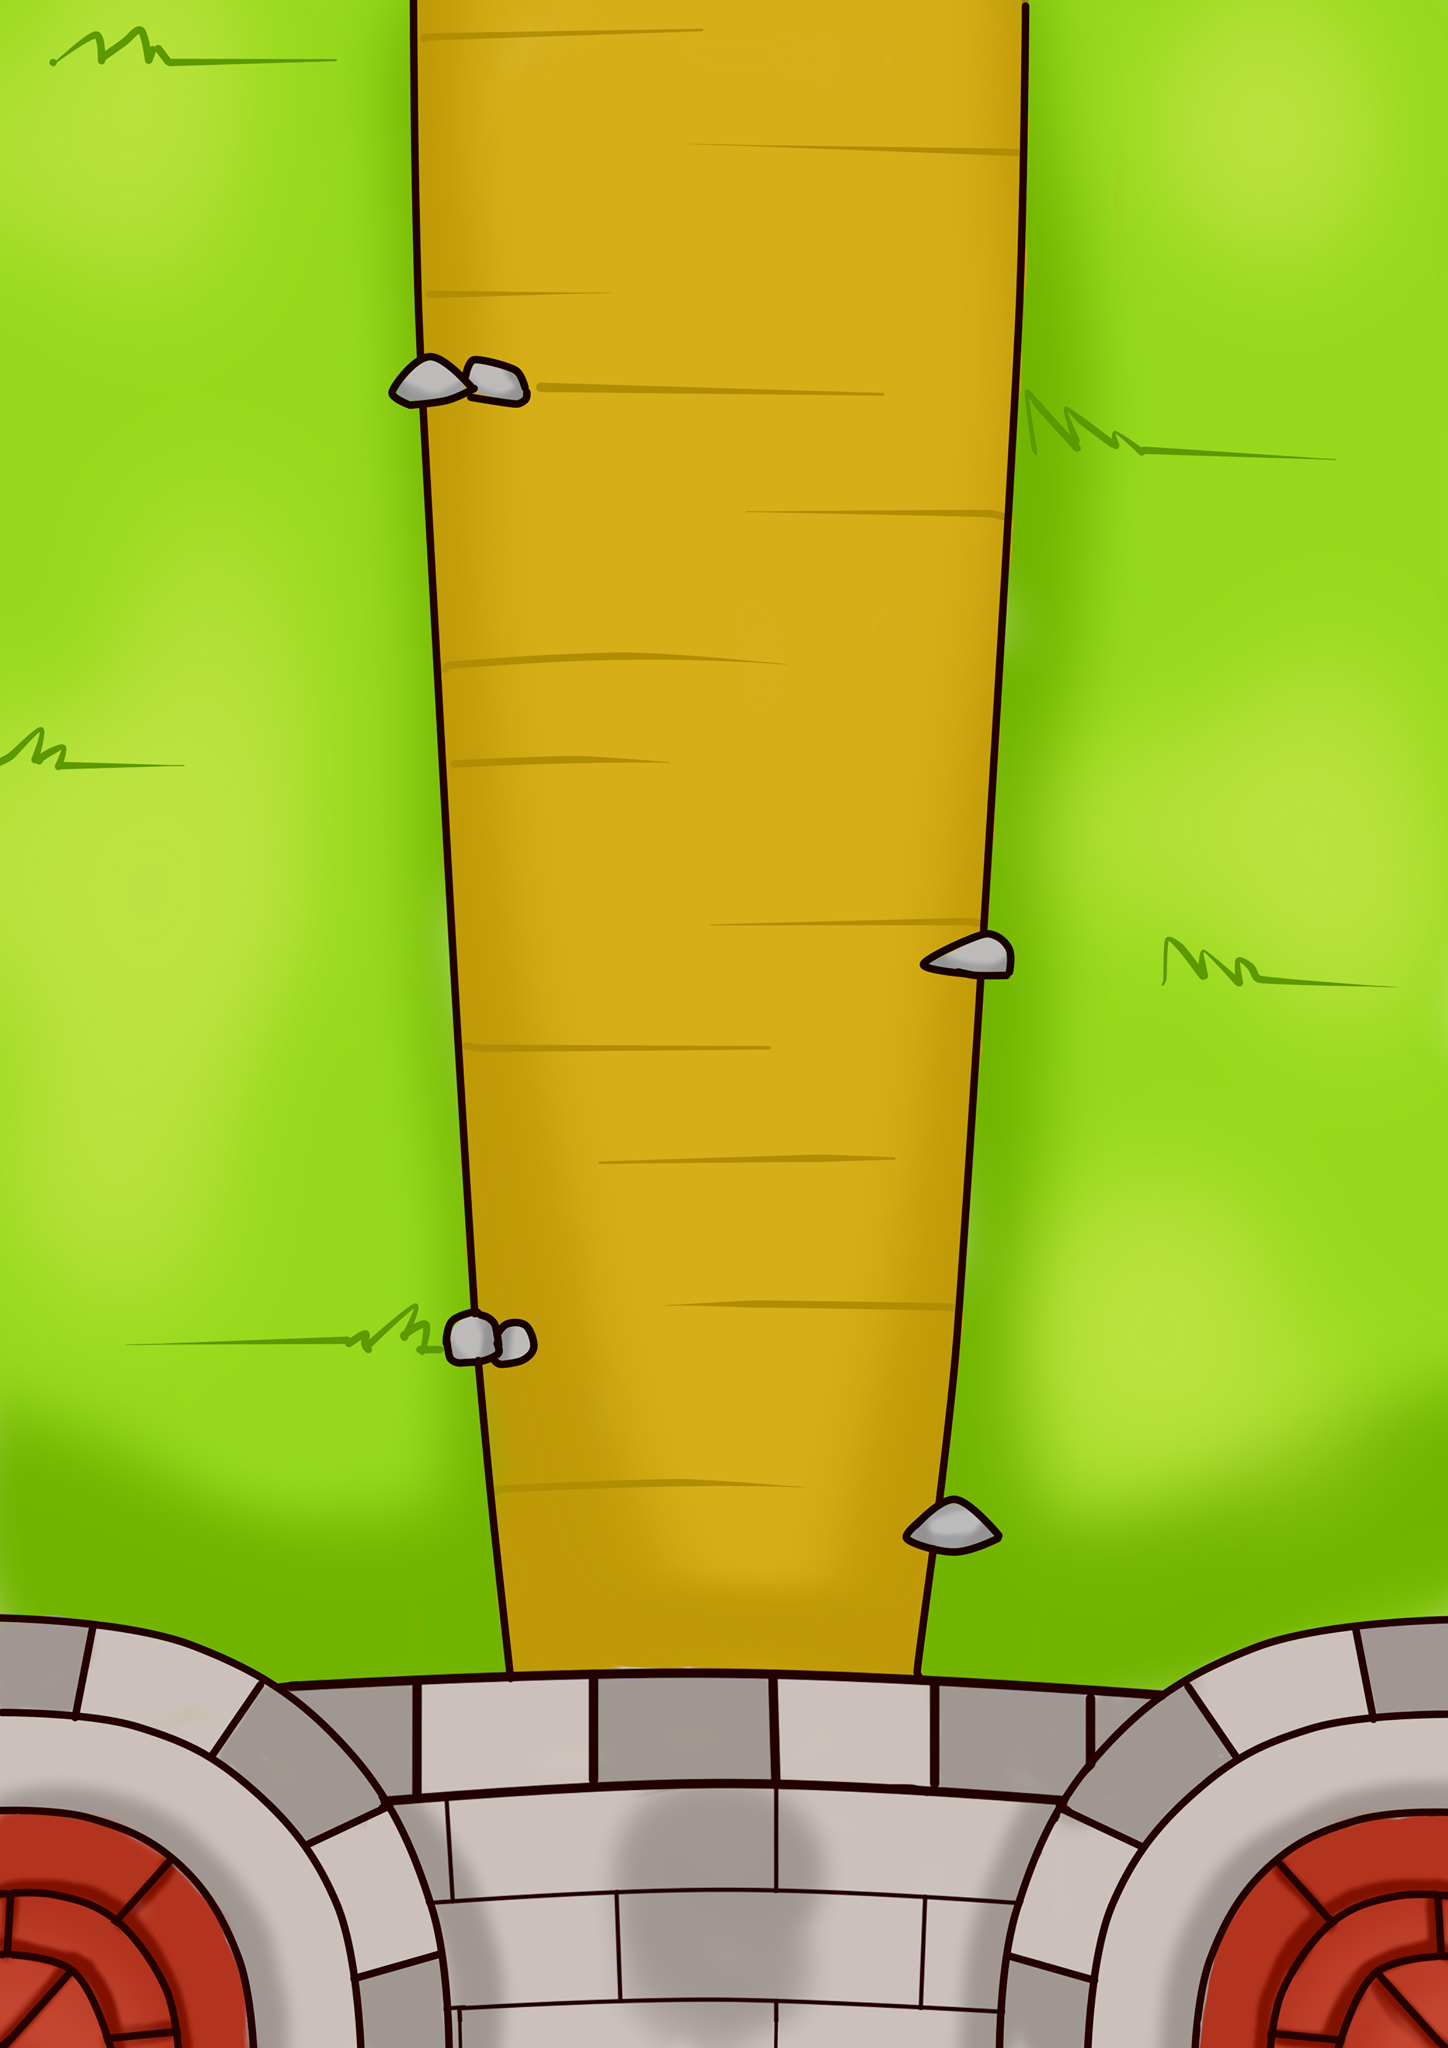
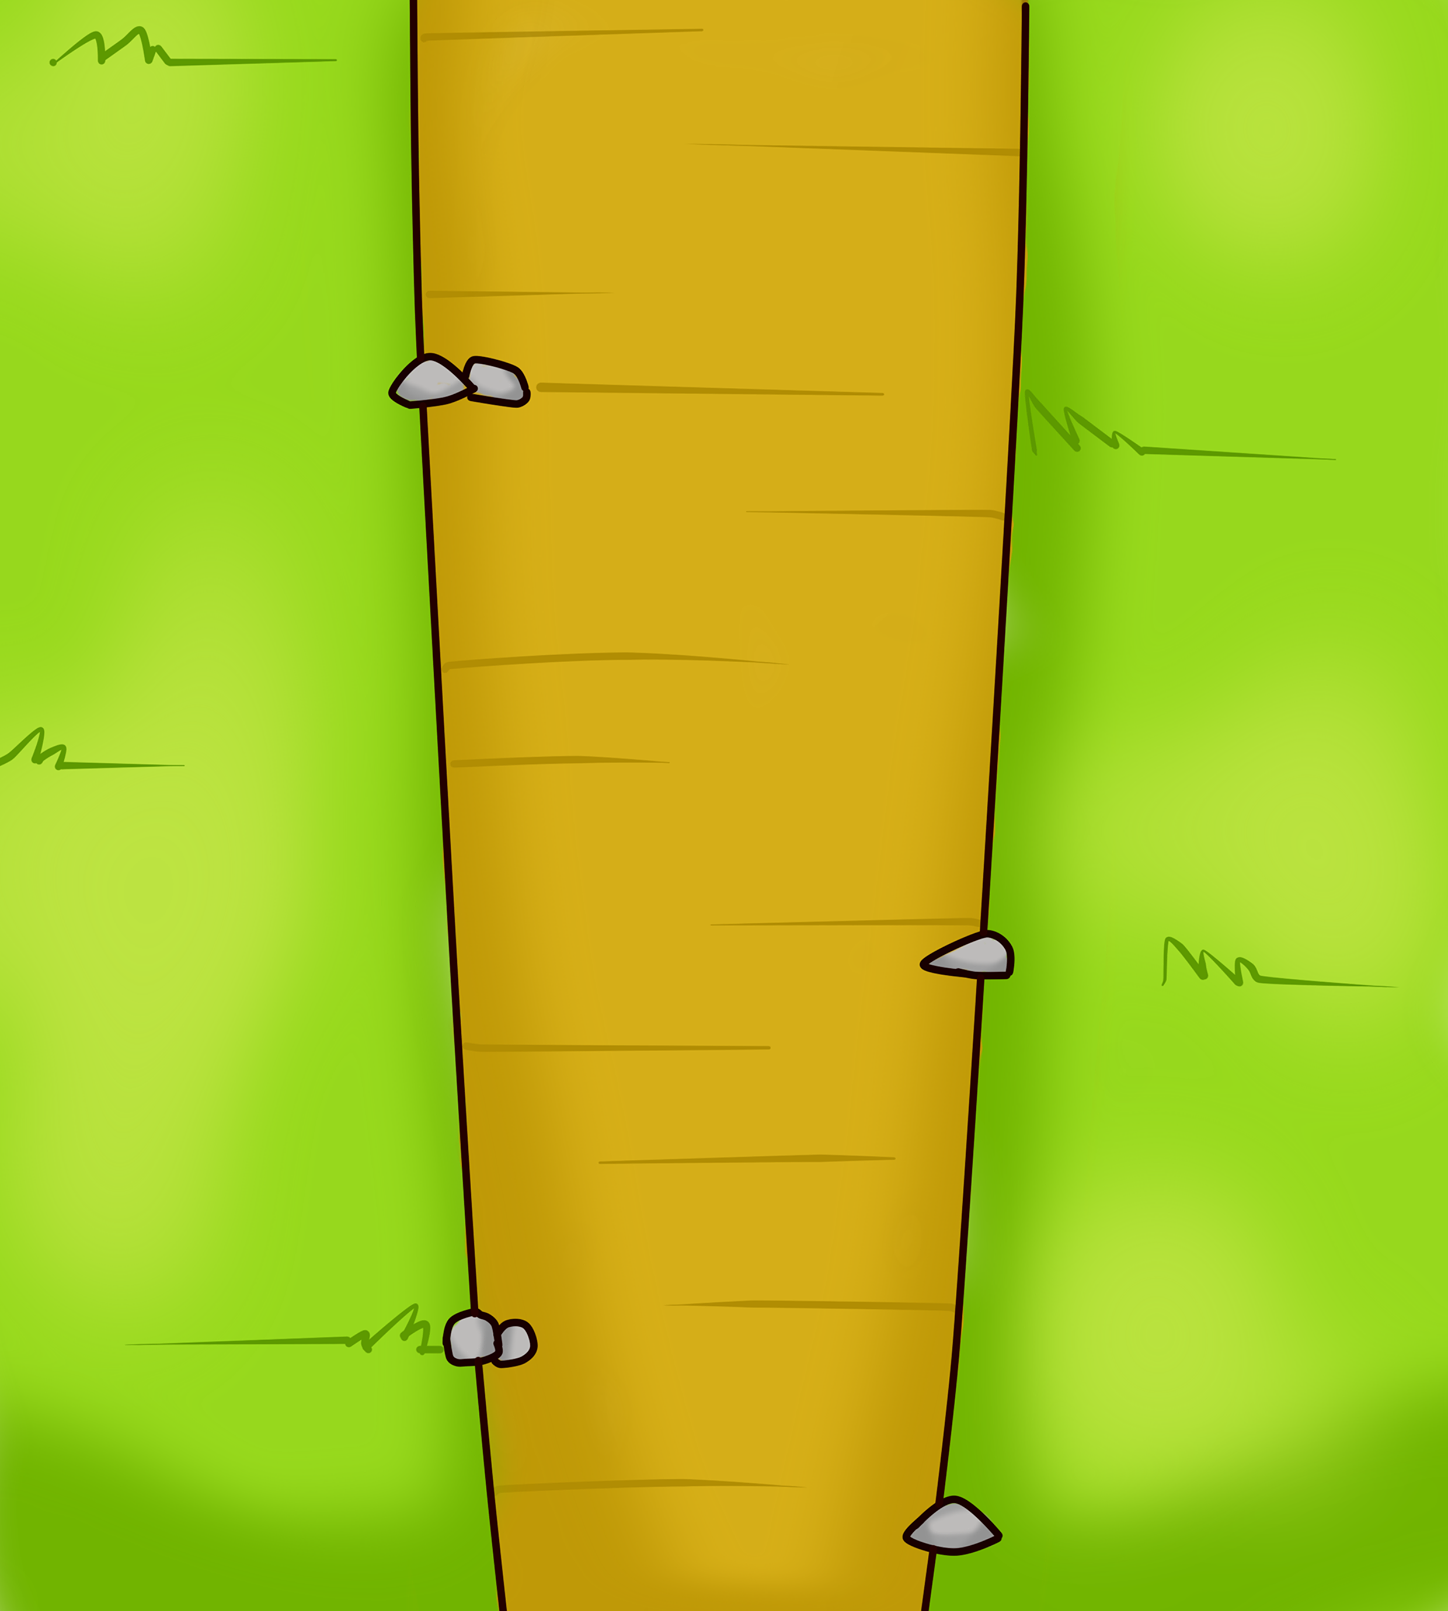
Updated11-20-2017-2

diff --git a/js/main.js b/js/main.js
@@ -1,14 +1,16 @@
 var game = new Phaser.Game(600, 800, Phaser.AUTO, '', { preload: preload, create: create, update: update });
 	function preload() {
-		game.load.image('background', 'assets/images/rsz_1background.png');
+		game.load.image('background', 'assets/images/background1.png');
 		game.load.image('wizard','assets/images/wizard1.png');
 		game.load.image('fireball','assets/images/fireball.png');
 		game.load.image('monster1','assets/images/mon1.png');
+		game.load.image('wall','assets/images/wall.png');
 	}
 
 	var sprite;
 	var fireballs;
 	var monsters;
+	var wall;
 
 	var fireRate = 500;
 	var nextFire = 0;
@@ -16,9 +18,25 @@ var game = new Phaser.Game(600, 800, Phaser.AUTO, '', { preload: preload, create
 	var score = 0;
 	var killed = 0;
 	var scoreTime =0;
+	var health = 5;
+	var temp;
 
 	function create() {
 		game.add.sprite(0, 0, 'background');
+
+		walls = game.add.group();
+		walls.enableBody = true;
+		walls.physicsBodyType = Phaser.Physics.ARCADE;
+
+		walls.createMultiple(6,'wall');
+		walls.setAll('checkWorldBounds',true);
+
+		wall = walls.getFirstExists(false);
+		wall.reset(300 , 745);
+		wall.anchor.set(0.5);
+		wall.scale.x = 0.25;
+		wall.scale.y = 0.22;
+		
 
 		fireballs = game.add.group();
     	fireballs.enableBody = true;
@@ -28,7 +46,7 @@ var game = new Phaser.Game(600, 800, Phaser.AUTO, '', { preload: preload, create
     	fireballs.setAll('checkWorldBounds', true);
     	fireballs.setAll('outOfBoundsKill', true);
 
-    	sprite = game.add.sprite(300, 700, 'wizard');
+    	sprite = game.add.sprite(300, 720, 'wizard');
 		sprite.anchor.set(0.5);
 		sprite.scale.x = 0.4;
 		sprite.scale.y = 0.4;
@@ -46,7 +64,8 @@ var game = new Phaser.Game(600, 800, Phaser.AUTO, '', { preload: preload, create
 	}
 	function update() {
 		game.physics.arcade.overlap(fireballs, monsters, collisionHandler, null, this);
-		sprite.rotation = game.physics.arcade.angleToPointer(sprite) + Math.PI/2;
+		game.physics.arcade.collide(wall, monsters, collisionHandler2, null, this);
+		sprite.rotation = game.physics.arcade.angleToPointer(sprite);
        	fire();
        	spawn();
        	if(game.time.now>scoreTime){
@@ -55,6 +74,7 @@ var game = new Phaser.Game(600, 800, Phaser.AUTO, '', { preload: preload, create
        	}
 		game.debug.text('Score : '+score,450,32);
 		game.debug.text('killed : '+killed,450,64);
+		game.debug.text('health : '+health,450,92);
 	}
 	function fire() {
 	    if (game.time.now > nextFire && fireballs.countDead() > 0)
@@ -66,7 +86,7 @@ var game = new Phaser.Game(600, 800, Phaser.AUTO, '', { preload: preload, create
 	        fireball.scale.x = 0.05;
 			fireball.scale.y = 0.05;
 
-	        fireball.reset(sprite.x - 29, sprite.y-30);
+	        fireball.reset(sprite.x - 30, sprite.y-30);
 
 	        game.physics.arcade.moveToPointer(fireball, 300);
 	    }
@@ -77,6 +97,17 @@ var game = new Phaser.Game(600, 800, Phaser.AUTO, '', { preload: preload, create
 	    fireball.kill();
 	    monster.kill();
 	    killed+=1;
+
+	}
+
+	function collisionHandler2 (wall, monster) {
+
+	    monster.kill();
+	    wall.reset(300 , 745);
+		wall.anchor.set(0.5);
+		wall.scale.x = 0.25;
+		wall.scale.y = 0.22;
+	    health-=1;
 
 	}
 
@@ -92,4 +123,9 @@ var game = new Phaser.Game(600, 800, Phaser.AUTO, '', { preload: preload, create
 				spawnTime = game.time.now +1500;
 			}
 		}
+	}
+	function processHandler (wall,monster) {
+
+	    return true;
+
 	}
